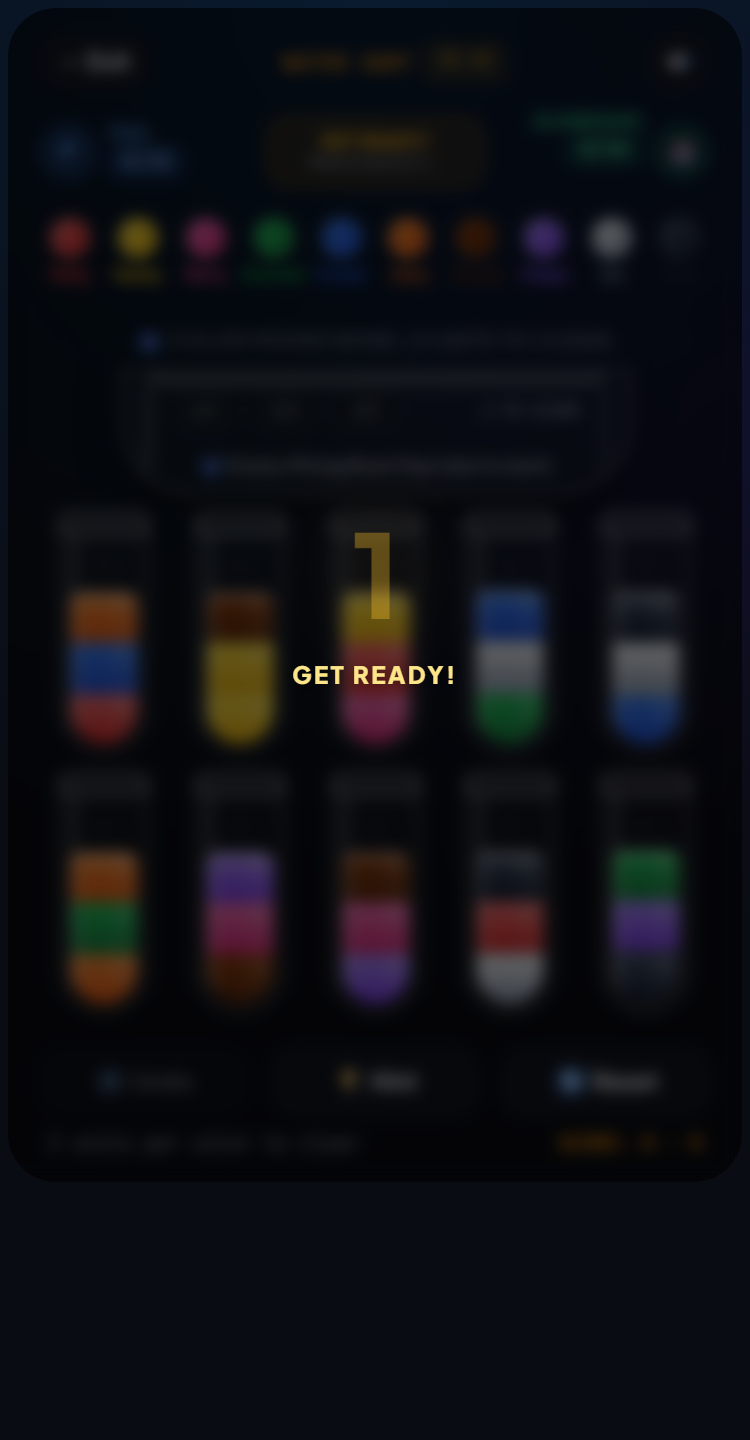
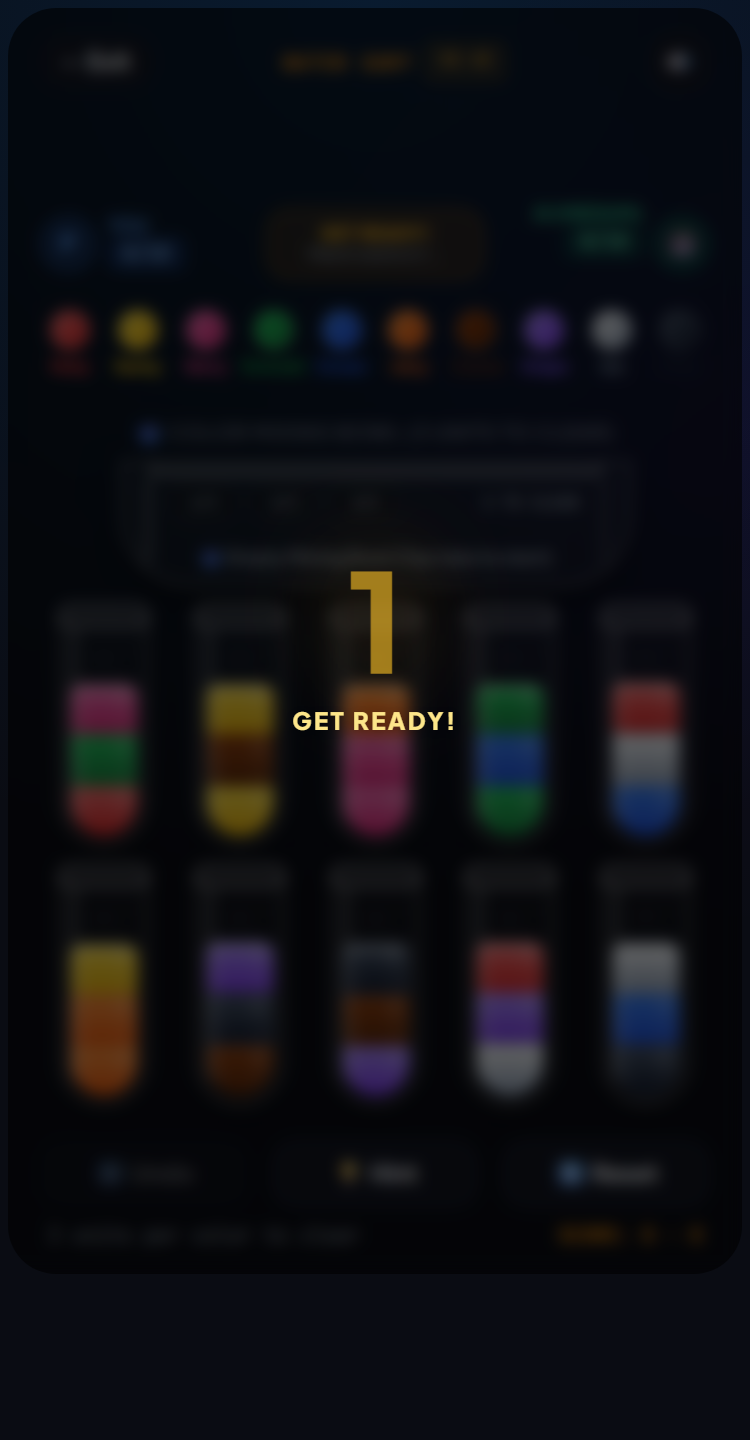
fix(water-sort): add top spacing to enemy notification and eliminate screen jumping

diff --git a/src/games/water-sort/WaterSortGame.ts b/src/games/water-sort/WaterSortGame.ts
@@ -460,8 +460,11 @@ export class WaterSortGame implements GameInstance {
       this.enemyToastTimeout = null;
     }
     if (this.enemyToastEl) {
-      this.enemyToastEl.className = 'w-full transition-all duration-300 max-h-0 py-0 opacity-0 overflow-hidden text-center my-0 rounded-xl border flex items-center justify-center space-x-2 px-3 text-xs font-bold';
+      this.enemyToastEl.className = 'w-full h-full transition-all duration-300 opacity-0 -translate-y-1 scale-98 pointer-events-none text-center rounded-xl border border-transparent flex items-center justify-center space-x-2 px-3 text-xs font-bold';
       this.enemyToastEl.style.boxShadow = '';
+      this.enemyToastEl.style.backgroundColor = '';
+      this.enemyToastEl.style.color = '';
+      this.enemyToastEl.style.borderColor = 'transparent';
     }
     if (this.statusBannerEl) {
       this.statusBannerEl.style.borderColor = '';
@@ -539,14 +542,15 @@ export class WaterSortGame implements GameInstance {
       this.enemyToastEl.style.boxShadow = `0 0 16px ${colorHex}55`;
       this.enemyToastEl.style.backgroundColor = isDark ? '#111827' : '#ffffff';
       this.enemyToastEl.style.color = isDark ? '#ffffff' : '#111827';
-      this.enemyToastEl.className = `w-full transition-all duration-300 max-h-12 py-1.5 opacity-100 text-center my-1 rounded-xl border flex items-center justify-center space-x-2 px-3 text-xs font-bold shadow-lg`;
+      this.enemyToastEl.className = `w-full h-full transition-all duration-300 opacity-100 translate-y-0 scale-100 text-center rounded-xl border flex items-center justify-center space-x-2 px-3 text-xs font-bold shadow-lg`;
 
       this.enemyToastTimeout = window.setTimeout(() => {
         if (this.enemyToastEl) {
-          this.enemyToastEl.className = 'w-full transition-all duration-300 max-h-0 py-0 opacity-0 overflow-hidden text-center my-0 rounded-xl border-0 flex items-center justify-center space-x-2 px-3 text-xs font-bold';
+          this.enemyToastEl.className = 'w-full h-full transition-all duration-300 opacity-0 -translate-y-1 scale-98 pointer-events-none text-center rounded-xl border border-transparent flex items-center justify-center space-x-2 px-3 text-xs font-bold';
           this.enemyToastEl.style.boxShadow = '';
           this.enemyToastEl.style.backgroundColor = '';
           this.enemyToastEl.style.color = '';
+          this.enemyToastEl.style.borderColor = 'transparent';
         }
         if (this.statusBannerEl) {
           this.statusBannerEl.style.borderColor = '';
@@ -574,14 +578,15 @@ export class WaterSortGame implements GameInstance {
       this.enemyToastEl.style.boxShadow = `0 0 12px ${colorHex}33`;
       this.enemyToastEl.style.backgroundColor = isDark ? '#111827' : '#ffffff';
       this.enemyToastEl.style.color = isDark ? '#ffffff' : '#111827';
-      this.enemyToastEl.className = `w-full transition-all duration-300 max-h-10 py-1 opacity-100 text-center my-0.5 rounded-xl border flex items-center justify-center space-x-2 px-3 text-xs font-bold shadow-md`;
+      this.enemyToastEl.className = `w-full h-full transition-all duration-300 opacity-100 translate-y-0 scale-100 text-center rounded-xl border flex items-center justify-center space-x-2 px-3 text-xs font-bold shadow-md`;
 
       this.enemyToastTimeout = window.setTimeout(() => {
         if (this.enemyToastEl) {
-          this.enemyToastEl.className = 'w-full transition-all duration-300 max-h-0 py-0 opacity-0 overflow-hidden text-center my-0 rounded-xl border-0 flex items-center justify-center space-x-2 px-3 text-xs font-bold';
+          this.enemyToastEl.className = 'w-full h-full transition-all duration-300 opacity-0 -translate-y-1 scale-98 pointer-events-none text-center rounded-xl border border-transparent flex items-center justify-center space-x-2 px-3 text-xs font-bold';
           this.enemyToastEl.style.boxShadow = '';
           this.enemyToastEl.style.backgroundColor = '';
           this.enemyToastEl.style.color = '';
+          this.enemyToastEl.style.borderColor = 'transparent';
         }
         if (this.statusBannerEl) {
           this.statusBannerEl.style.borderColor = '';
@@ -684,9 +689,11 @@ export class WaterSortGame implements GameInstance {
           ⚠ Opponent is tabbed out / minimized
         </div>
 
-        <!-- Opponent Action Notice Banner (Noticeable, Unclipped, Animated) -->
-        <div id="water-enemy-toast" class="w-full transition-all duration-300 max-h-0 py-0 opacity-0 overflow-hidden text-center my-0 rounded-xl border flex items-center justify-center space-x-2 px-3 text-xs font-bold">
-          <!-- Populated dynamically -->
+        <!-- Opponent Action Notice Slot (Fixed height prevents any layout shift; generous top spacing) -->
+        <div id="water-enemy-toast-slot" class="w-full h-8 sm:h-9 relative flex items-center justify-center mt-2.5 sm:mt-3 mb-1.5 sm:mb-2">
+          <div id="water-enemy-toast" class="w-full h-full transition-all duration-300 opacity-0 -translate-y-1 scale-98 pointer-events-none text-center rounded-xl border border-transparent flex items-center justify-center space-x-2 px-3 text-xs font-bold">
+            <!-- Populated dynamically -->
+          </div>
         </div>
 
         <!-- 1v1 Split Duel Score & Momentum HUD -->
